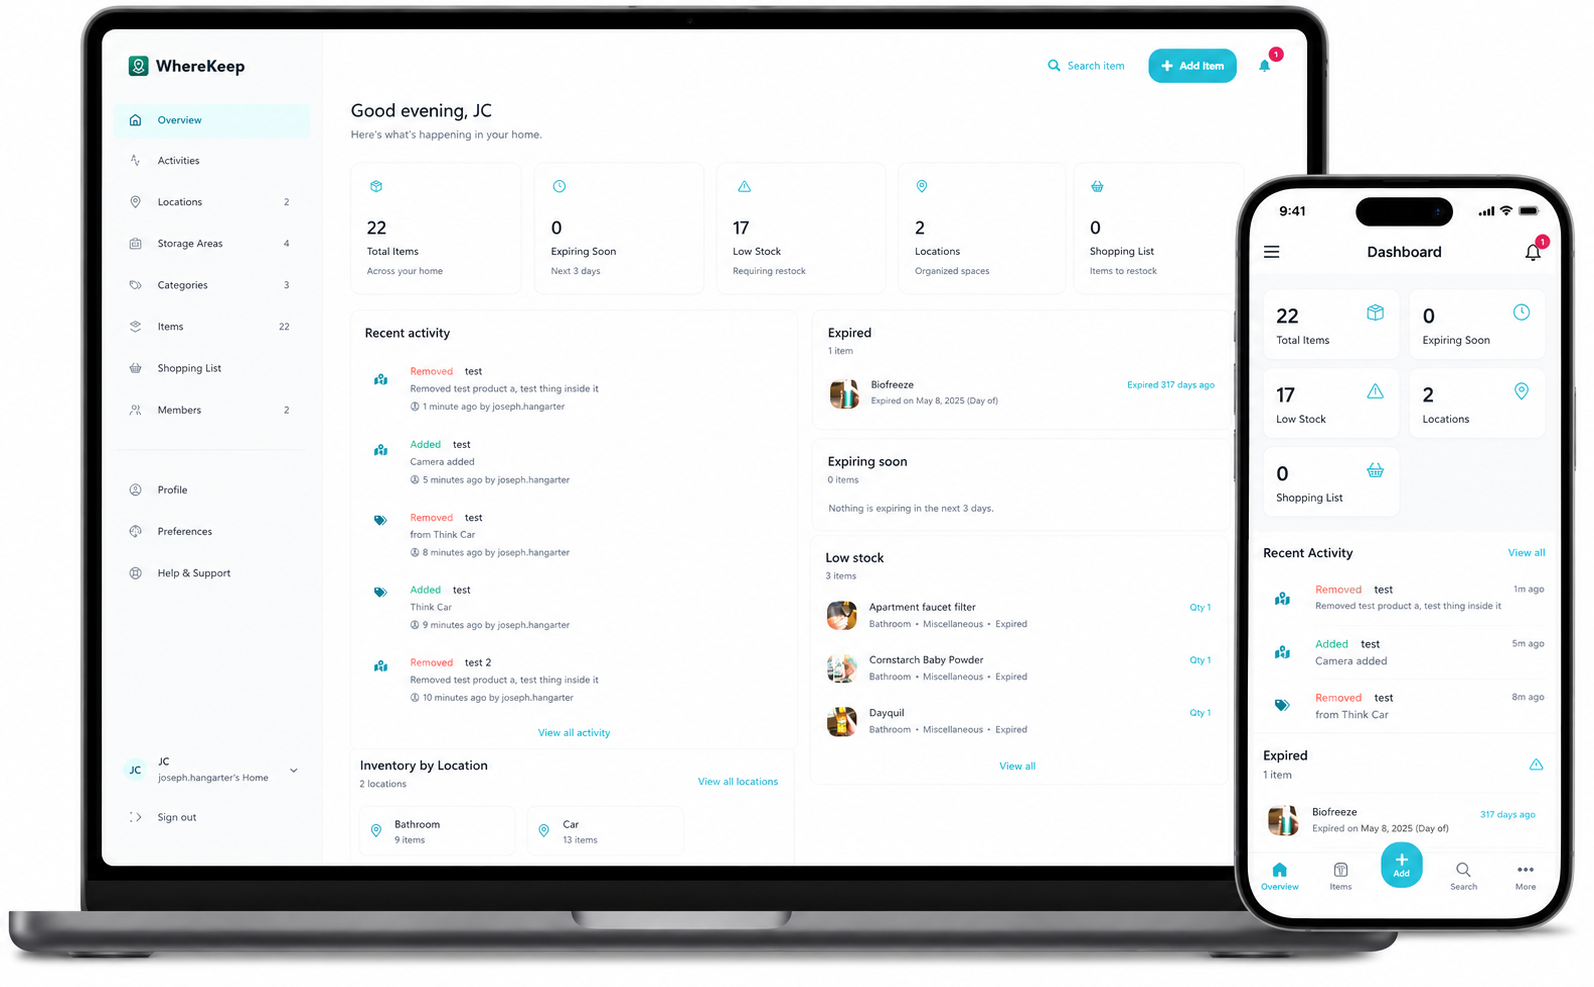
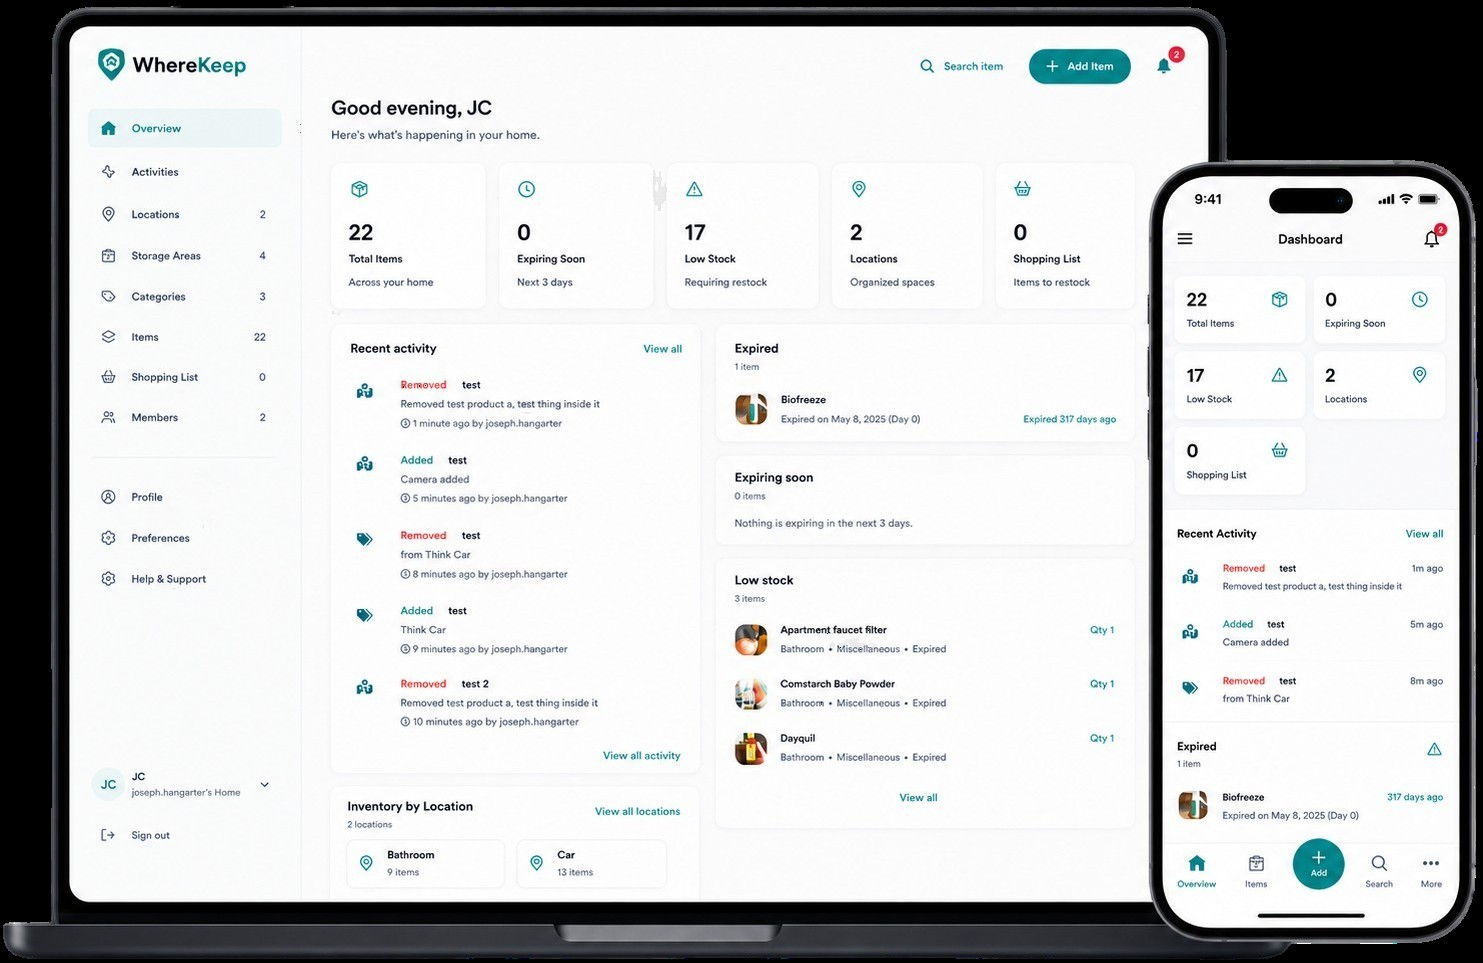
updated images for projects, and updated resume

diff --git a/lib/content.js b/lib/content.js
@@ -17,13 +17,13 @@ export const socialLinks = [
 
 export const credibilityCards = [
   {
-    value: '4+ Years',
+    value: '6+ Years',
     label: 'Professional Experience',
     icon: 'calendar',
     accent: 'cyan',
   },
   {
-    value: 'React & Next.js',
+    value: 'Next.js & React',
     label: 'Specialist',
     icon: 'layers',
     accent: 'violet',
@@ -62,7 +62,7 @@ export const projects = [
     technologies: ['Next.js', 'JavaScript', 'Supabase', 'PostgreSQL', 'Stripe', 'Tailwind CSS', 'Vercel'],
     liveUrl: 'https://www.wherekeep.com/',
     repositoryUrl: '',
-    heroImage: '/project-previews/wherekeep.jpg',
+    heroImage: '/project-previews/wherekeep-transparent.png',
     imageAlt: 'WhereKeep dashboard shown on desktop and mobile devices',
     ctaPrimary: 'View Live Product',
     ctaSecondary: 'Read Case Study',
@@ -137,11 +137,11 @@ export const projects = [
     timeline: 'In development',
     status: 'In Development',
     technologies: ['Next.js', 'JavaScript', 'Tailwind CSS', 'Stripe', 'QR Code API', 'Vercel'],
-    liveUrl: '',
+    liveUrl: 'https://qr-generator-puce-phi.vercel.app/',
     repositoryUrl: '',
-    heroImage: '',
-    imageAlt: 'QuickQR in-development QR code editor product preview',
-    ctaPrimary: 'View Live Site',
+    heroImage: '/project-previews/quickqr-transparent.png',
+    imageAlt: 'QuickQR responsive QR code generator preview shown on desktop and mobile devices',
+    ctaPrimary: 'View Live Product',
     ctaSecondary: 'Read Case Study',
     accent: 'purple',
     featured: true,

diff --git a/components/CaseStudyPage.jsx b/components/CaseStudyPage.jsx
@@ -161,14 +161,14 @@ export default function CaseStudyPage({ project }) {
 
         <ExtraCaseSections sections={project.caseStudySections} />
 
-        <Section title="Screenshot Assets">
+        {/* <Section title="Screenshot Assets">
           <div className="rounded-[1.35rem] border border-dashed border-white/20 bg-white/[0.04] p-5">
             <p className="font-bold text-white">Useful screenshots to add as the project asset set grows:</p>
             <div className="mt-4">
               <List items={project.screenshots} />
             </div>
           </div>
-        </Section>
+        </Section> */}
 
         {project.currentStatus || project.futureImprovements?.length ? (
           <Section title="Current Status and Future Improvements">

diff --git a/components/ProjectVisual.jsx b/components/ProjectVisual.jsx
@@ -90,7 +90,7 @@ function CompositeImagePreview({ project, priority = false, compact = false }) {
 }
 
 export default function ProjectVisual({ project, priority = false, compact = false }) {
-  if (project.slug === 'quickqr') {
+  if (project.slug === 'quickqr' && !project.heroImage) {
     return <QuickQrPreview compact={compact} />;
   }
 